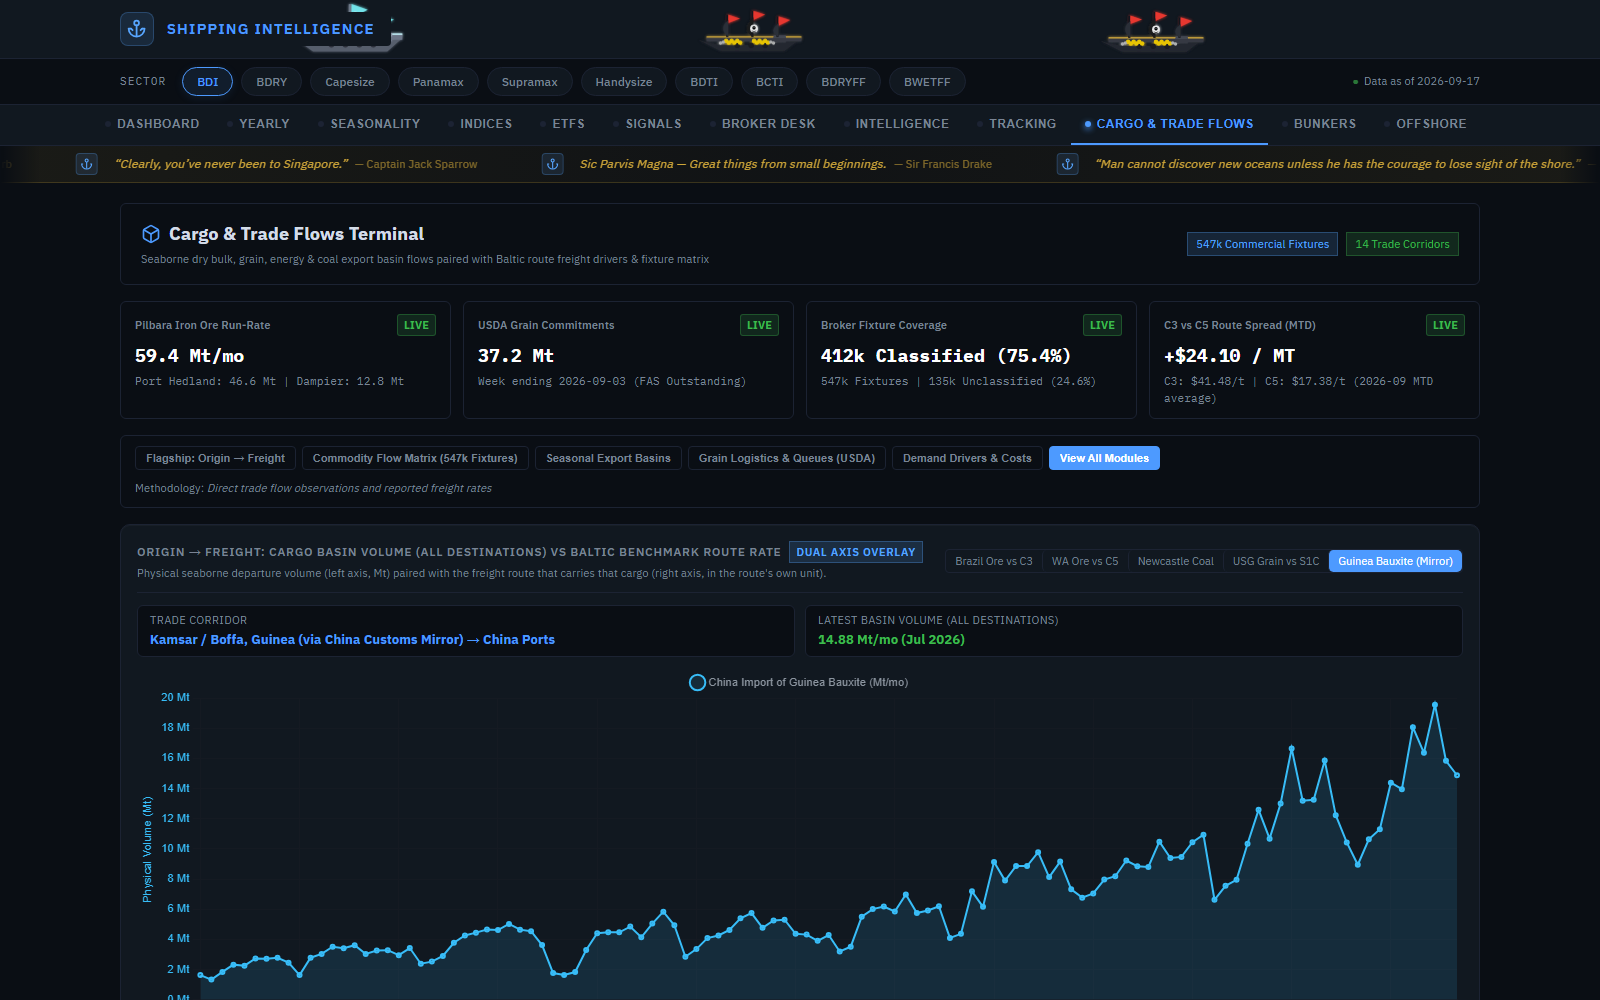
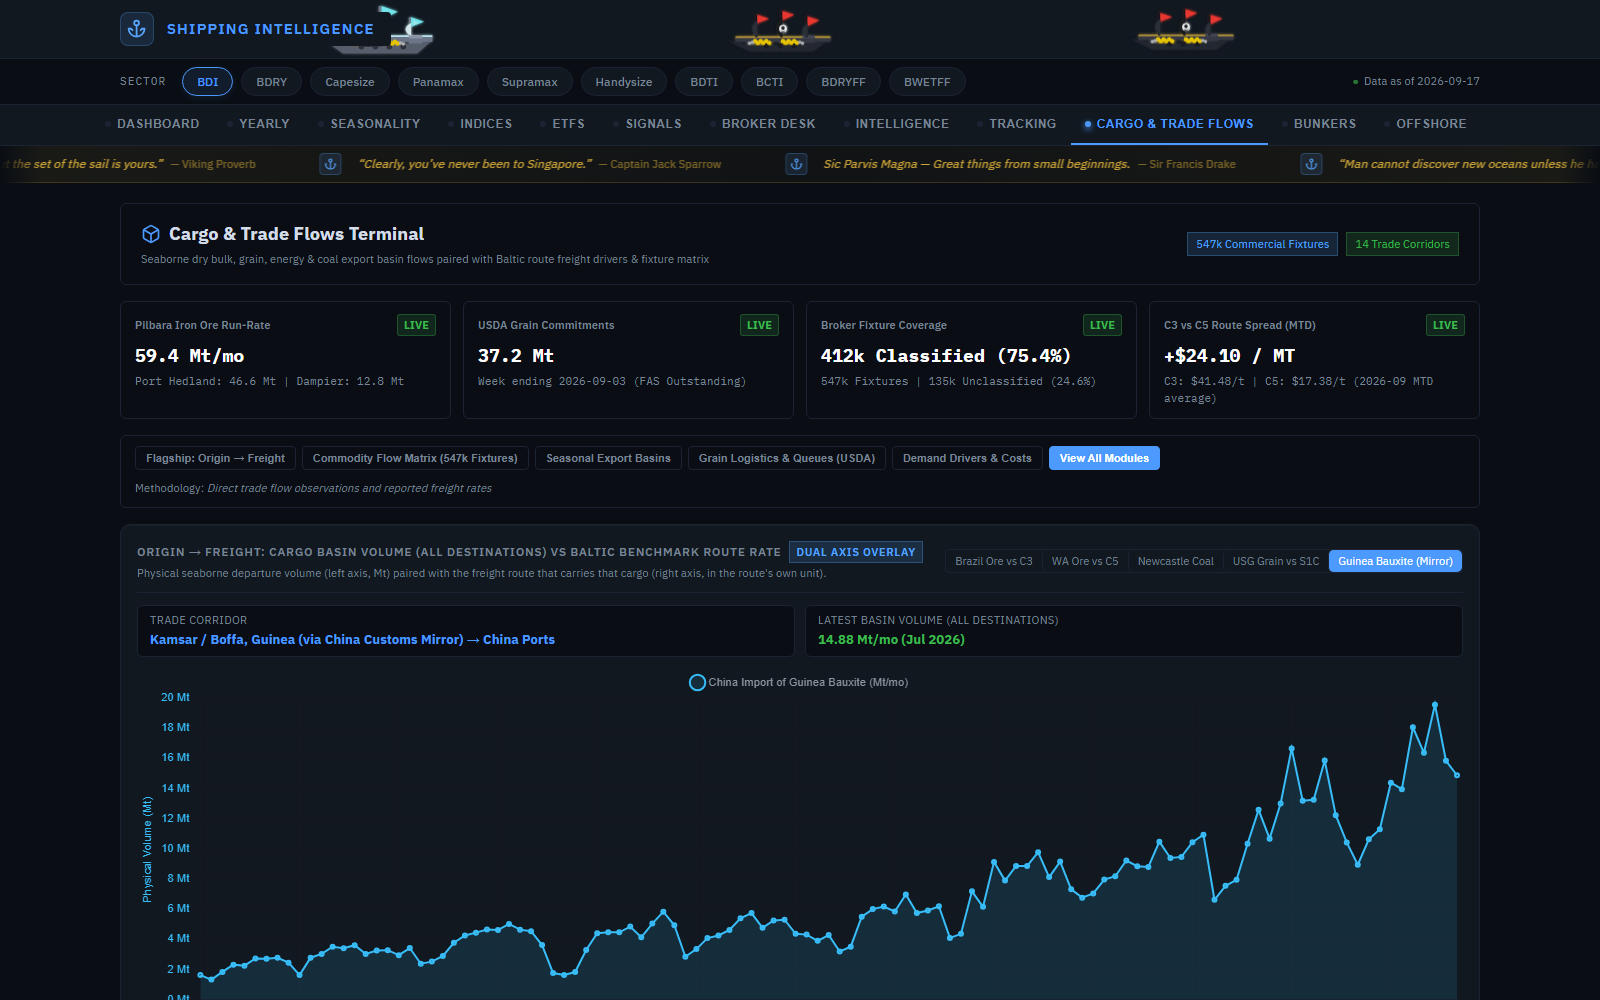
fix(cargo): repoint Fortescue filings to canonical ASX announcements and add verifier to scheduled pipeline

diff --git a/scripts/scrapers/fetch_major_miners_production.py b/scripts/scrapers/fetch_major_miners_production.py
@@ -218,8 +218,8 @@ OFFICIAL_FILINGS_REGISTRY = [
         "production_mt": 48.0, "shipments_mt": 47.7,
         "c1_cash_cost_usd_t": 20.16, "annual_guidance": None,
         "primary_loading_terminals": "Port Hedland (Herb Elliott)",
-        "provenance": "ASX:2824177",
-        "exhibit_url": "https://content.fortescue.com/fortescue17114-fortescueeb60-productionbbdb-8be5/media/project/fortescueportal/shared/docs/default-source/announcements-and-reports/september-2024-quarterly-production-report.pdf",
+        "provenance": "ASX:069hm7ms79p437",
+        "exhibit_url": "https://announcements.asx.com.au/asxpdf/20241024/pdf/069hm7ms79p437.pdf",
         "table_row_label": "Total ore shipped / Total ore processed / Total ore mined / Hematite C1",
         "basis": "Total ore shipped (47.7 Mt), processed (48.0 Mt), mined (57.1 Mt); C1 US$20.16/wmt; ASX announcement"
     },
@@ -326,8 +326,8 @@ OFFICIAL_FILINGS_REGISTRY = [
         "production_mt": 47.6, "shipments_mt": 46.1,
         "c1_cash_cost_usd_t": 17.53, "annual_guidance": None,
         "primary_loading_terminals": "Port Hedland (Herb Elliott)",
-        "provenance": "ASX:2882620",
-        "exhibit_url": "https://content.fortescue.com/fortescue17114-fortescueeb60-productionbbdb-8be5/media/project/fortescueportal/shared/documents/regulatory/asx-announcements/2882620-march-2025-quarterly-production-report.pdf",
+        "provenance": "ASX:06j473xk9fqt6l",
+        "exhibit_url": "https://announcements.asx.com.au/asxpdf/20250429/pdf/06j473xk9fqt6l.pdf",
         "table_row_label": "Total ore shipped / Total ore processed / Total ore mined / Hematite C1",
         "basis": "Total ore shipped (46.1 Mt), processed (47.6 Mt), mined (55.5 Mt); C1 US$17.53/wmt; ASX announcement"
     },
@@ -380,8 +380,8 @@ OFFICIAL_FILINGS_REGISTRY = [
         "production_mt": 54.4, "shipments_mt": 55.2,
         "c1_cash_cost_usd_t": 16.29, "annual_guidance": None,
         "primary_loading_terminals": "Port Hedland (Herb Elliott)",
-        "provenance": "ASX:2919488",
-        "exhibit_url": "https://content.fortescue.com/fortescue17114-fortescueeb60-productionbbdb-8be5/media/project/fortescueportal/shared/documents/regulatory/asx-announcements/2919488-june-2025-quarterly-production-report.pdf",
+        "provenance": "ASX:06m2rwk1d2zgzf",
+        "exhibit_url": "https://announcements.asx.com.au/asxpdf/20250724/pdf/06m2rwk1d2zgzf.pdf",
         "table_row_label": "Total ore shipped / Total ore processed / Total ore mined / Hematite C1",
         "basis": "Total ore shipped (55.2 Mt), processed (54.4 Mt), mined (64.3 Mt); C1 US$16.29/wmt; ASX announcement"
     },
@@ -542,8 +542,8 @@ OFFICIAL_FILINGS_REGISTRY = [
         "production_mt": 47.8, "shipments_mt": 48.4,
         "c1_cash_cost_usd_t": 18.29, "annual_guidance": None,
         "primary_loading_terminals": "Port Hedland (Herb Elliott)",
-        "provenance": "ASX:03082072",
-        "exhibit_url": "https://content.fortescue.com/fortescue17114-fortescueeb60-productionbbdb-8be5/media/project/fortescueportal/shared/documents/regulatory/asx-announcements/automated/03082072-march-2026-quarterly-production-report.pdf",
+        "provenance": "ASX:06ytclmh4bwzlr",
+        "exhibit_url": "https://announcements.asx.com.au/asxpdf/20260424/pdf/06ytclmh4bwzlr.pdf",
         "table_row_label": "Total ore shipped / Total ore processed / Total ore mined / Hematite C1",
         "basis": "Total ore shipped (48.4 Mt), processed (47.8 Mt), mined (59.5 Mt); C1 US$18.29/wmt; ASX announcement"
     },

diff --git a/tests/test_cargo_truth.py b/tests/test_cargo_truth.py
@@ -257,15 +257,21 @@ def test_major_miners_all_rows_have_filing_provenance():
         f"{invalid_provs[['miner', 'quarter', 'provenance']].to_dict('records')}"
     )
 
-    # 3. Every row MUST have a valid non-empty exhibit URL pointing to SEC EDGAR or ASX
-    valid_url_mask = df["exhibit_url"].fillna("").str.contains(r"sec\.gov|asx\.com\.au|fortescue\.com|markitdigital\.com", regex=True)
+    # 3. Every row MUST have a valid non-empty exhibit URL pointing to SEC EDGAR or ASX/Markit
+    valid_url_mask = df["exhibit_url"].fillna("").str.contains(r"sec\.gov|asx\.com\.au|markitdigital\.com", regex=True)
     invalid_urls = df[~valid_url_mask]
     assert len(invalid_urls) == 0, (
         f"Found {len(invalid_urls)} row(s) with missing/invalid exhibit URL: "
         f"{invalid_urls[['miner', 'quarter', 'exhibit_url']].to_dict('records')}"
     )
 
-    # 4. Table row label and basis must be documented for every row
+    # 4. Strictly disallow company-hosted URLs (which move/break over time)
+    company_site_mask = df["exhibit_url"].fillna("").str.contains(r"fortescue\.com", regex=True)
+    assert not company_site_mask.any(), (
+        f"Found {company_site_mask.sum()} row(s) citing company-hosted fortescue.com URLs instead of exchange filings"
+    )
+
+    # 5. Table row label and basis must be documented for every row
     assert not df["table_row_label"].isna().any(), "Found rows with missing table_row_label"
     assert not (df["table_row_label"].str.strip() == "").any(), "Found rows with empty table_row_label"
     assert not df["basis"].isna().any(), "Found rows with missing basis"

diff --git a/scripts/verify/smoke_test_scrapers.py b/scripts/verify/smoke_test_scrapers.py
@@ -748,8 +748,8 @@ def test_major_miners_live():
     cmd = [sys.executable, str(ROOT / "scripts" / "verify" / "verify_miners_provenance.py")]
     res = subprocess.run(cmd, capture_output=True, text=True)
     if res.returncode == 0:
-        logger.info("  Miners verifier PASSED (all 14 verified rows confirmed)")
-        record_result(source, True, "200", stored, expected, "14 PASS / 0 FAIL across all non-null fields")
+        logger.info("  Miners verifier PASSED (all 40 verified rows confirmed)")
+        record_result(source, True, "200", stored, expected, "40 PASS / 0 FAIL across all non-null fields")
         return True
     else:
         logger.error("  Miners verifier FAILED with exit code %d:\n%s", res.returncode, res.stdout[-500:])
